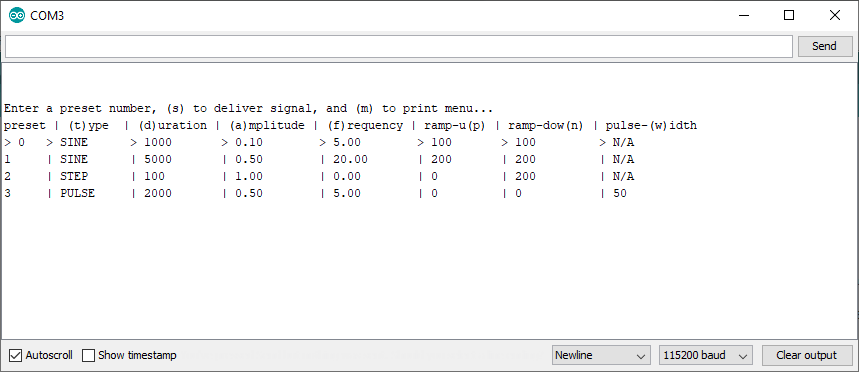
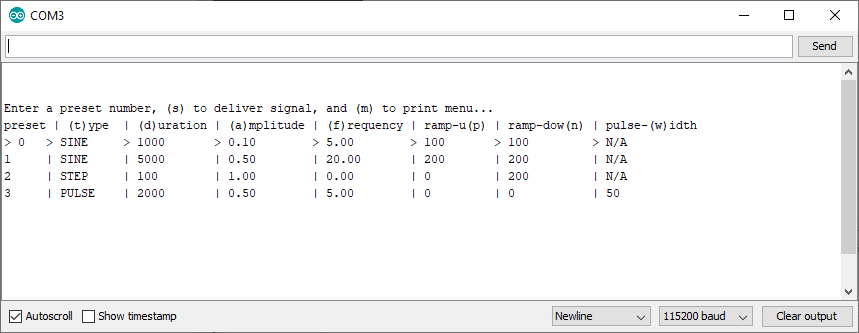
superficial mods

diff --git a/SignalBuddy/presets.h b/SignalBuddy/presets.h
@@ -19,7 +19,7 @@ class Preset {
       }
       
       Serial.print(seperator);
-      printWithLength(signalNames[type], 10);
+      printWithLength(signalNames[type], 9);
       Serial.print(seperator);
       printWithLength(String(duration), 11);
       Serial.print(seperator);
